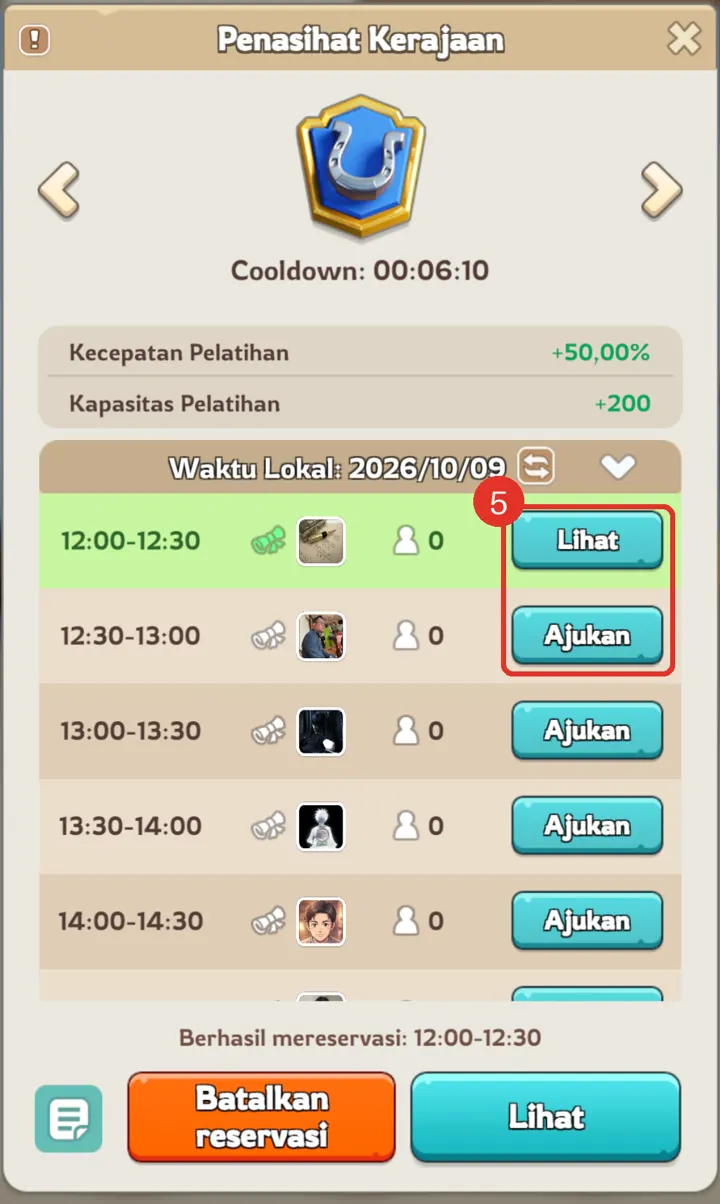
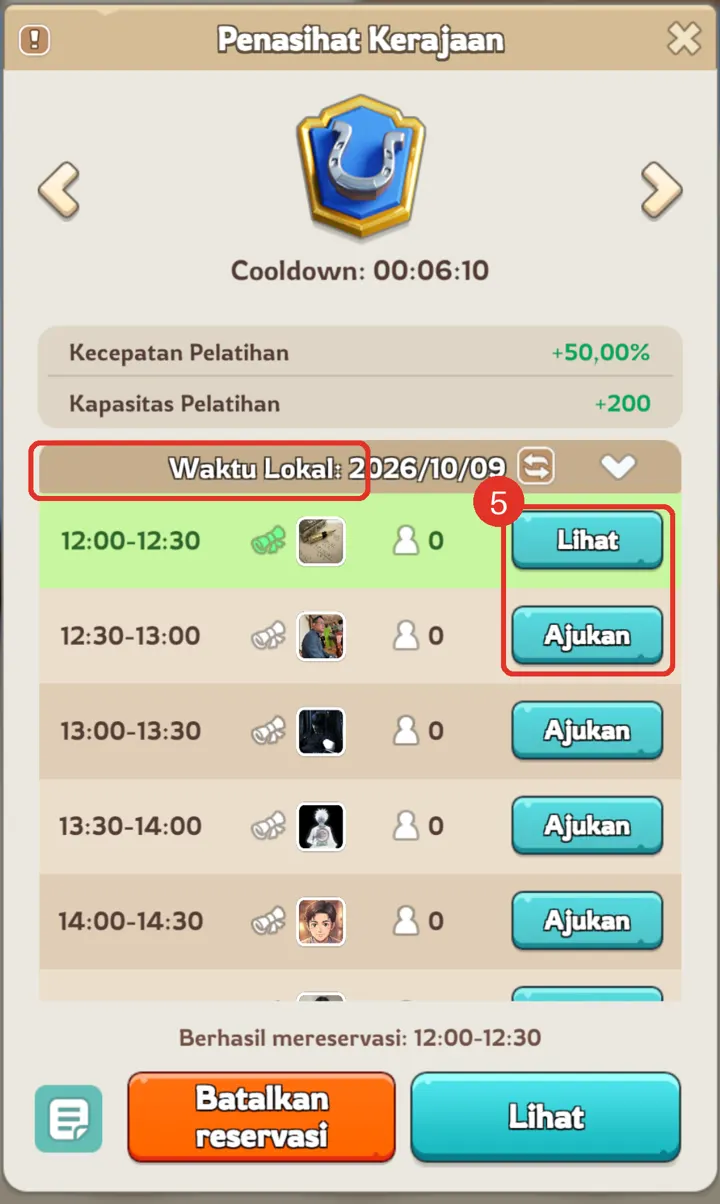
預約教學：第 5 步說明當地時間／UTC 切換按鈕，截圖框出日期列
Claude-Session: https://claude.ai/code/session_01CUyp6XeRkq5wWm1b7wYML8

Changed region(s): [[0.0306, 0.3688, 0.5194, 0.4302], [0.0611, 0.338, 0.4889, 0.3688]]

diff --git a/data/booking-guide.js b/data/booking-guide.js
@@ -193,33 +193,33 @@ const BOOKING_GUIDE = {
     "ar": "في تبويب الوزراء اضغط على المنصب الذي تريده."
    },
    {
-    "en": "Pick a time slot and tap the button on the right to book it. The times are in your phone's local time. To cancel, open the same window again.",
-    "zh": "選一個時段，按右邊的按鈕就預約好了。時段顯示的是你手機的當地時間。要取消的話，再打開同一個視窗就可以。",
-    "ko": "시간대를 고르고 오른쪽 버튼을 누르면 예약됩니다. 시간은 휴대폰의 현지 시간입니다. 취소하려면 같은 창을 다시 열면 됩니다.",
-    "de": "Wähle ein Zeitfenster und tippe rechts auf den Button – fertig. Die Zeiten sind die Ortszeit deines Handys. Zum Stornieren dasselbe Fenster erneut öffnen.",
-    "fr": "Choisissez un créneau et touchez le bouton à droite : c'est réservé. Les heures sont celles de votre téléphone. Pour annuler, rouvrez la même fenêtre.",
-    "pt": "Escolha um horário e toque no botão à direita — pronto. Os horários estão na hora local do seu celular. Para cancelar, abra a mesma janela de novo.",
-    "es": "Elige una franja y toca el botón de la derecha: ya está reservada. Las horas son la hora local de tu móvil. Para cancelar, vuelve a abrir la misma ventana.",
-    "tr": "Bir saat dilimi seç ve sağdaki düğmeye dokun — rezerve edildi. Saatler telefonunun yerel saatidir. İptal için aynı pencereyi tekrar aç.",
-    "id": "Pilih slot waktu lalu ketuk tombol di kanan — selesai. Waktunya mengikuti waktu lokal ponselmu. Untuk membatalkan, buka lagi jendela yang sama.",
-    "ru": "Выберите время и нажмите кнопку справа — готово. Время показано по часам вашего телефона. Чтобы отменить, откройте то же окно ещё раз.",
-    "th": "เลือกช่วงเวลาแล้วแตะปุ่มด้านขวาก็จองเรียบร้อย เวลาที่แสดงเป็นเวลาท้องถิ่นของโทรศัพท์คุณ ถ้าจะยกเลิกให้เปิดหน้าต่างเดิมอีกครั้ง",
-    "ar": "اختر فترة زمنية واضغط الزر على اليمين — تم الحجز. الأوقات بتوقيت هاتفك المحلي. للإلغاء افتح النافذة نفسها مرة أخرى."
+    "en": "Pick a time slot and tap the button on the right to book it. The list shows your phone's local time; the small button next to the date switches it between local time and UTC. To cancel, open the same window again.",
+    "zh": "選一個時段，按右邊的按鈕就預約好了。清單顯示的是你手機的當地時間，點「當地時間」旁邊的小按鈕可以在當地時間和 UTC 之間切換。要取消的話，再打開同一個視窗就可以。",
+    "ko": "시간대를 고르고 오른쪽 버튼을 누르면 예약됩니다. 목록은 휴대폰의 현지 시간이며, 날짜 옆의 작은 버튼으로 현지 시간과 UTC를 전환할 수 있습니다. 취소하려면 같은 창을 다시 열면 됩니다.",
+    "de": "Wähle ein Zeitfenster und tippe rechts auf den Button – fertig. Die Liste zeigt die Ortszeit deines Handys; der kleine Button neben dem Datum schaltet zwischen Ortszeit und UTC um. Zum Stornieren dasselbe Fenster erneut öffnen.",
+    "fr": "Choisissez un créneau et touchez le bouton à droite : c'est réservé. La liste est dans l'heure locale de votre téléphone ; le petit bouton à côté de la date bascule entre heure locale et UTC. Pour annuler, rouvrez la même fenêtre.",
+    "pt": "Escolha um horário e toque no botão à direita — pronto. A lista mostra a hora local do seu celular; o botãozinho ao lado da data alterna entre hora local e UTC. Para cancelar, abra a mesma janela de novo.",
+    "es": "Elige una franja y toca el botón de la derecha: ya está reservada. La lista muestra la hora local de tu móvil; el botón pequeño junto a la fecha cambia entre hora local y UTC. Para cancelar, vuelve a abrir la misma ventana.",
+    "tr": "Bir saat dilimi seç ve sağdaki düğmeye dokun — rezerve edildi. Liste telefonunun yerel saatini gösterir; tarihin yanındaki küçük düğme yerel saat ile UTC arasında geçiş yapar. İptal için aynı pencereyi tekrar aç.",
+    "id": "Pilih slot waktu lalu ketuk tombol di kanan — selesai. Daftar menampilkan waktu lokal ponselmu; tombol kecil di sebelah tanggal mengganti antara waktu lokal dan UTC. Untuk membatalkan, buka lagi jendela yang sama.",
+    "ru": "Выберите время и нажмите кнопку справа — готово. Список показан по местному времени телефона; маленькая кнопка рядом с датой переключает местное время и UTC. Чтобы отменить, откройте то же окно ещё раз.",
+    "th": "เลือกช่วงเวลาแล้วแตะปุ่มด้านขวาก็จองเรียบร้อย รายการแสดงเวลาท้องถิ่นของโทรศัพท์ ปุ่มเล็ก ๆ ข้างวันที่ใช้สลับระหว่างเวลาท้องถิ่นกับ UTC ถ้าจะยกเลิกให้เปิดหน้าต่างเดิมอีกครั้ง",
+    "ar": "اختر فترة زمنية واضغط الزر على اليمين — تم الحجز. تعرض القائمة توقيت هاتفك المحلي؛ الزر الصغير بجانب التاريخ يبدّل بين التوقيت المحلي وUTC. للإلغاء افتح النافذة نفسها مرة أخرى."
    }
   ],
   "tip": {
-   "en": "Tips: one booking per position at a time; the slot list uses your phone's local time, so match it against the UTC times in the guides. Each slot shows how many players already applied.",
-   "zh": "小提醒：每個職位同時只能有一筆預約；時段清單用的是手機的當地時間，對照指南的 UTC 時間時記得換算。每個時段都會顯示已申請人數。",
-   "ko": "참고: 관직마다 예약은 한 번에 하나. 시간대 목록은 휴대폰 현지 시간이므로 가이드의 UTC 시간과 환산해 맞추세요. 각 시간대에 이미 신청한 인원이 표시됩니다.",
-   "de": "Hinweise: pro Position nur eine Buchung gleichzeitig; die Liste zeigt die Ortszeit deines Handys – rechne sie auf die UTC-Zeiten der Guides um. Jedes Zeitfenster zeigt, wie viele sich schon beworben haben.",
-   "fr": "Astuces : une réservation par poste à la fois ; la liste est dans l'heure locale de votre téléphone, à convertir avec les heures UTC des guides. Chaque créneau indique combien de joueurs ont déjà postulé.",
-   "pt": "Dicas: uma reserva por cargo de cada vez; a lista usa a hora local do celular, então converta para os horários UTC dos guias. Cada horário mostra quantos já se candidataram.",
-   "es": "Consejos: una reserva por cargo a la vez; la lista usa la hora local del móvil, así que conviértela a las horas UTC de las guías. Cada franja muestra cuántos ya han solicitado.",
-   "tr": "İpuçları: her makam için aynı anda tek rezervasyon; liste telefonunun yerel saatini kullanır, rehberlerdeki UTC saatlerine göre çevir. Her dilim kaç kişinin başvurduğunu gösterir.",
-   "id": "Tips: satu pemesanan per jabatan dalam satu waktu; daftar memakai waktu lokal ponselmu, jadi samakan dengan jam UTC di panduan. Tiap slot menampilkan berapa pemain yang sudah mengajukan.",
-   "ru": "Подсказки: по одной брони на должность; список — в местном времени телефона, сверяйте с UTC из гайдов. У каждого слота видно, сколько игроков уже подали заявку.",
-   "th": "เคล็ดลับ: จองได้ทีละหนึ่งต่อตำแหน่ง รายการใช้เวลาท้องถิ่นของโทรศัพท์ ให้เทียบกับเวลา UTC ในคู่มือ แต่ละช่วงแสดงจำนวนผู้สมัครแล้ว",
-   "ar": "نصائح: حجز واحد لكل منصب في الوقت نفسه؛ القائمة بتوقيت هاتفك المحلي فقارنها بأوقات UTC في الأدلة. كل فترة تعرض عدد من تقدّموا بالفعل."
+   "en": "Tips: one booking per position at a time. Each slot shows how many players already applied.",
+   "zh": "小提醒：每個職位同時只能有一筆預約。每個時段都會顯示已申請人數。",
+   "ko": "참고: 관직마다 예약은 한 번에 하나. 각 시간대에 이미 신청한 인원이 표시됩니다.",
+   "de": "Hinweise: pro Position nur eine Buchung gleichzeitig. Jedes Zeitfenster zeigt, wie viele sich schon beworben haben.",
+   "fr": "Astuces : une réservation par poste à la fois. Chaque créneau indique combien de joueurs ont déjà postulé.",
+   "pt": "Dicas: uma reserva por cargo de cada vez. Cada horário mostra quantos já se candidataram.",
+   "es": "Consejos: una reserva por cargo a la vez. Cada franja muestra cuántos ya han solicitado.",
+   "tr": "İpuçları: her makam için aynı anda tek rezervasyon. Her dilim kaç kişinin başvurduğunu gösterir.",
+   "id": "Tips: satu pemesanan per jabatan dalam satu waktu. Tiap slot menampilkan berapa pemain yang sudah mengajukan.",
+   "ru": "Подсказки: по одной брони на должность. У каждого слота видно, сколько игроков уже подали заявку.",
+   "th": "เคล็ดลับ: จองได้ทีละหนึ่งต่อตำแหน่ง แต่ละช่วงแสดงจำนวนผู้สมัครแล้ว",
+   "ar": "نصائح: حجز واحد لكل منصب في الوقت نفسه. كل فترة تعرض عدد من تقدّموا بالفعل."
   },
   "shotNote": {
    "en": "Screenshots are in {l}; the buttons are in the same place in every language.",
